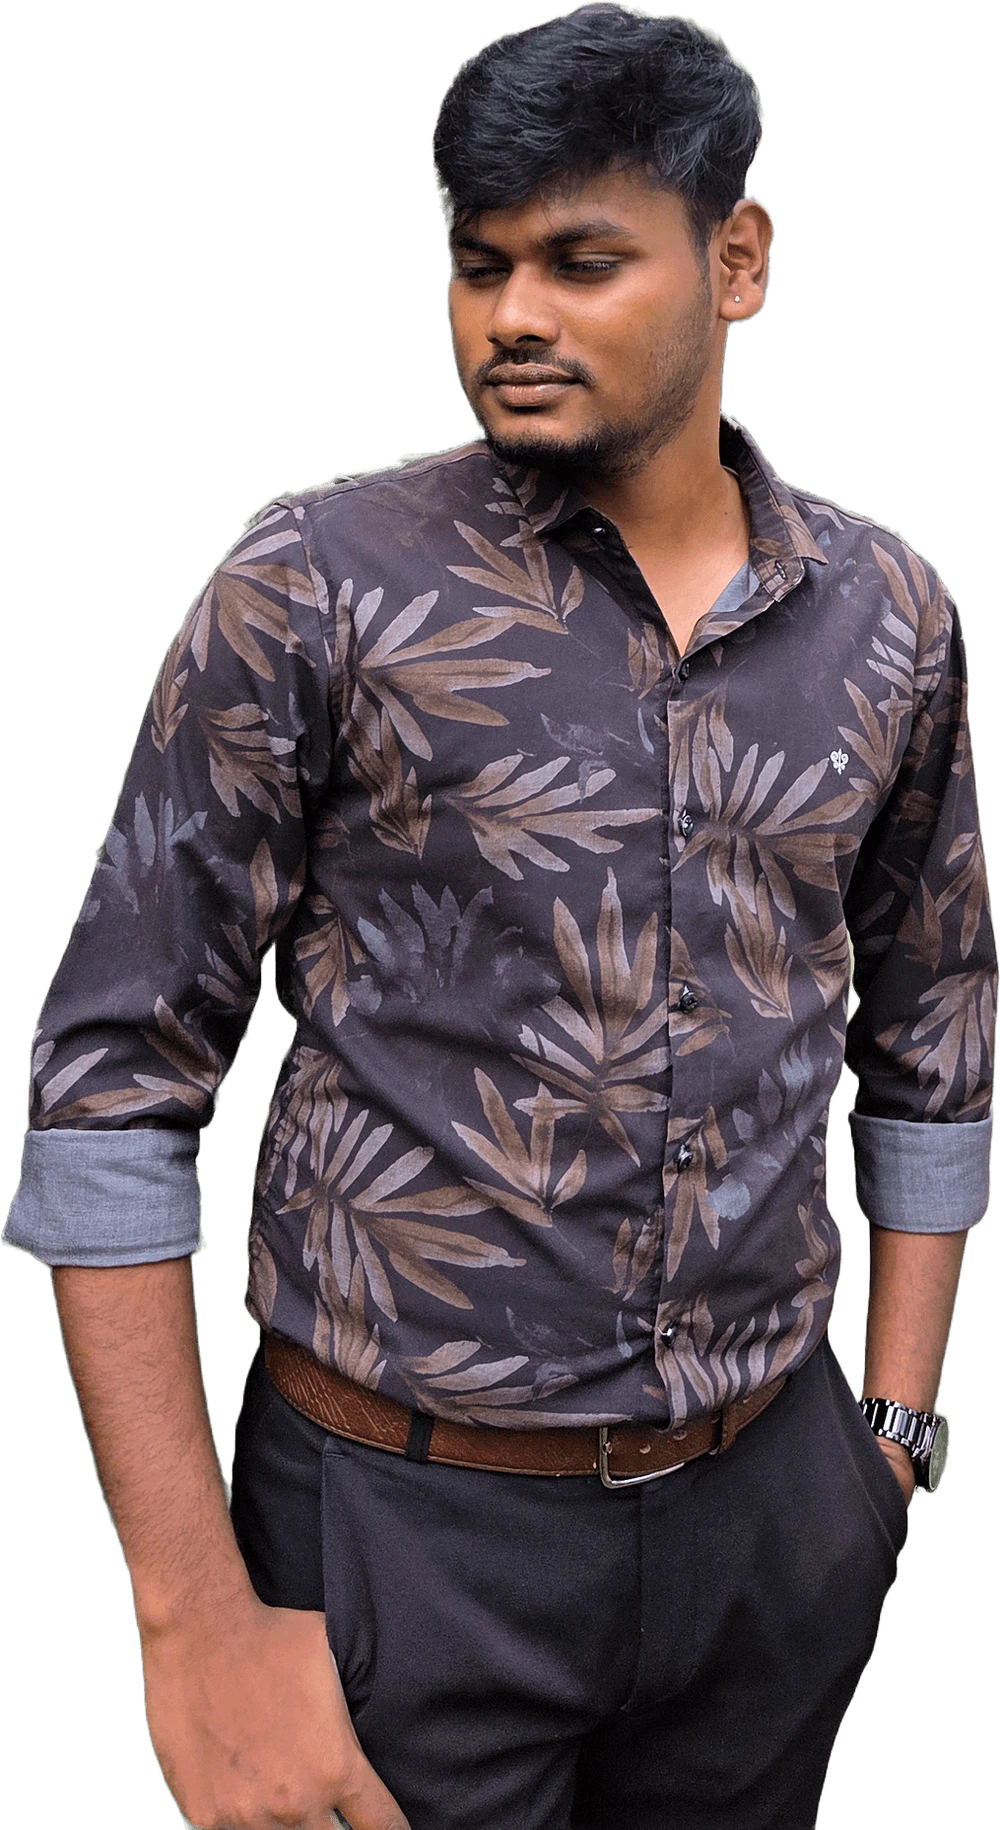
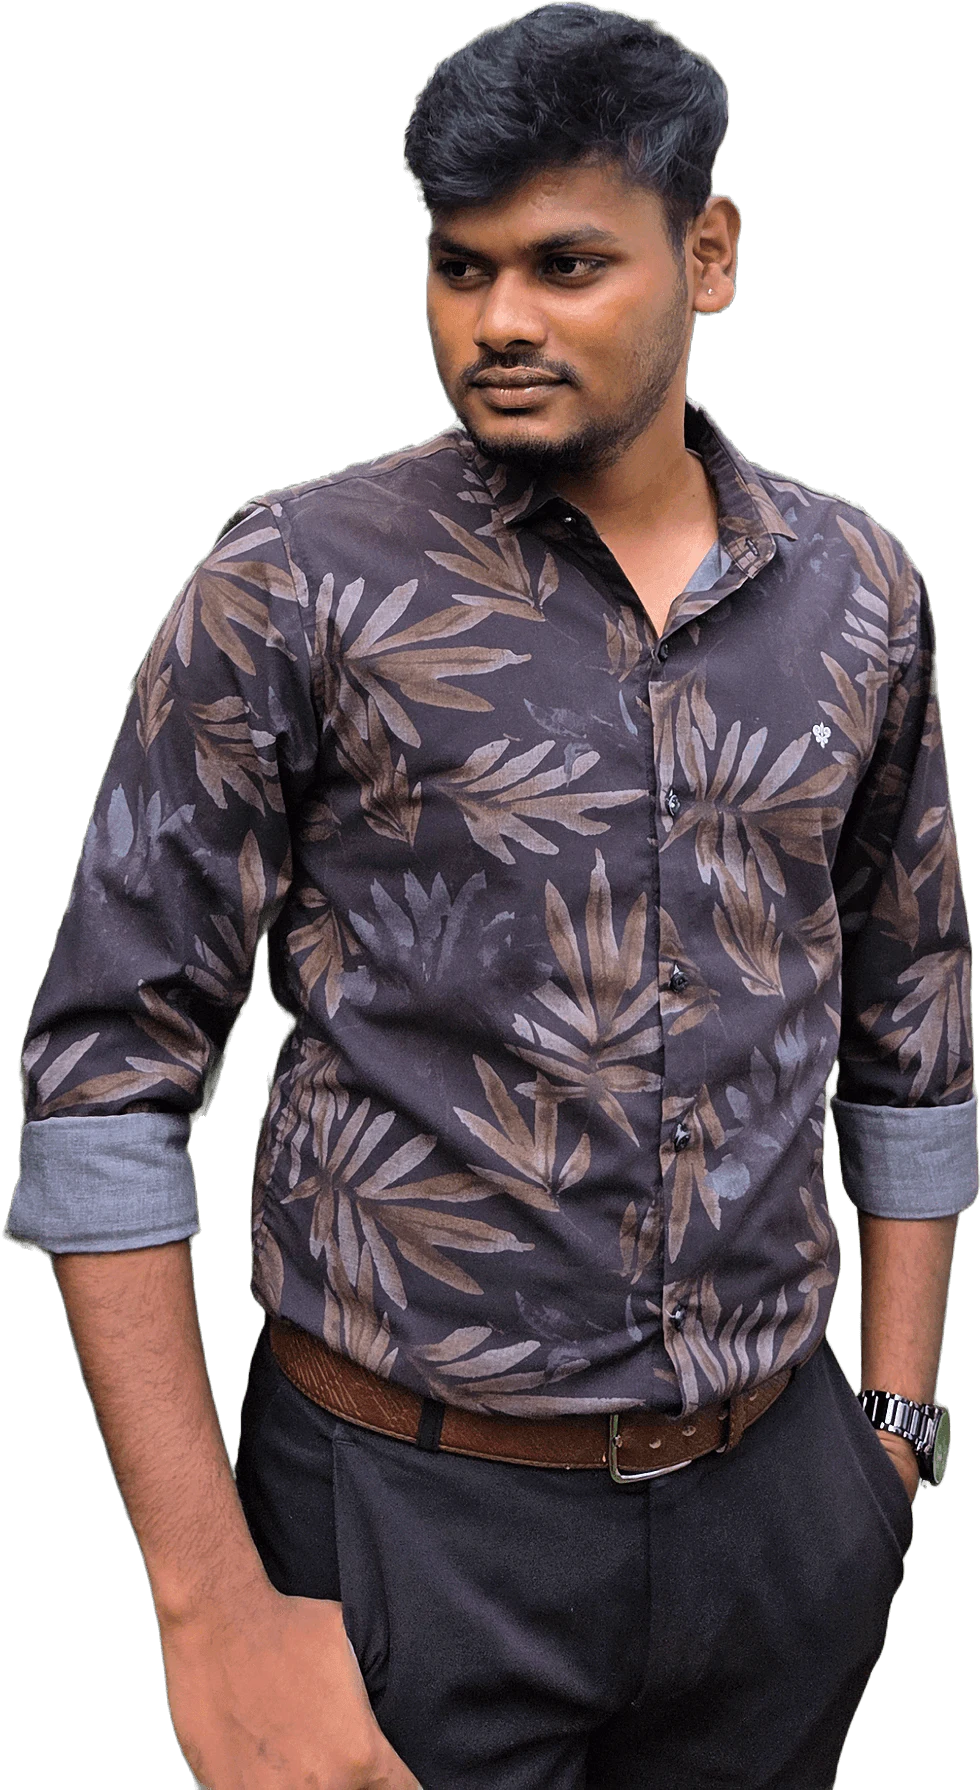
img update

diff --git a/style.css b/style.css
@@ -186,13 +186,22 @@ body.has-pointer .cursor-glow { opacity: 1; }
 }
 .nav-inner { height: 100%; display: flex; align-items: center; justify-content: space-between; gap: 1rem; }
 
-.logo { display: inline-flex; align-items: center; gap: .1rem; font-family: var(--font-head); font-weight: 700; font-size: 1.2rem; }
+.logo { display: inline-flex; align-items: center; gap: .6rem; font-family: var(--font-head); font-weight: 700; font-size: 1.15rem; letter-spacing: -.01em; }
 .logo-mark {
-    width: 34px; height: 34px; border-radius: 10px; margin-right: .35rem;
-    display: grid; place-items: center; color: #fff; font-size: 1.05rem;
-    background: var(--grad);
-    box-shadow: 0 6px 18px -6px rgba(124, 92, 255, .7);
+    position: relative; flex: none; width: 36px; height: 36px; border-radius: 10px;
+    display: grid; place-items: center; color: #fff; overflow: hidden;
+    background: linear-gradient(135deg, #7c5cff, #4f8dff 55%, #22d3ee);
+    box-shadow: 0 8px 20px -8px rgba(124, 92, 255, .8), inset 0 1px 0 rgba(255, 255, 255, .25);
+    transition: transform .5s var(--ease), box-shadow .4s;
 }
+.logo-mark svg { width: 100%; height: 100%; }
+.logo-mark::after {
+    content: ""; position: absolute; inset: 0;
+    background: linear-gradient(115deg, transparent 30%, rgba(255, 255, 255, .45) 50%, transparent 70%);
+    transform: translateX(-120%); transition: transform .7s var(--ease);
+}
+.logo:hover .logo-mark { transform: rotate(-8deg) scale(1.06); box-shadow: 0 12px 26px -8px rgba(124, 92, 255, .95); }
+.logo:hover .logo-mark::after { transform: translateX(120%); }
 .logo .dot { color: var(--primary-2); }
 
 .nav-links { display: flex; gap: .25rem; padding: .35rem; border-radius: 999px; border: 1px solid var(--border); background: var(--surface); backdrop-filter: blur(10px); }
@@ -271,7 +280,7 @@ body.has-pointer .cursor-glow { opacity: 1; }
 /* Visual */
 @property --ang { syntax: "<angle>"; initial-value: 0deg; inherits: false; }
 
-.hero-visual { position: relative; justify-self: center; width: min(380px, 100%); aspect-ratio: 3 / 4; }
+.hero-visual { position: relative; isolation: isolate; justify-self: center; width: min(380px, 100%); aspect-ratio: 3 / 4; }
 .avatar-ring {
     position: absolute; inset: 0; padding: 3px;
     border-radius: 999px 999px 32px 32px;
@@ -297,24 +306,66 @@ body.has-pointer .cursor-glow { opacity: 1; }
 .hero-visual:hover .avatar img { transform: scale(1.04); }
 @keyframes ang { to { --ang: 360deg; } }
 
-.float-chip, .float-card {
-    position: absolute; display: flex; align-items: center; gap: .55rem;
-    padding: .6rem .95rem; border-radius: 14px;
-    font-size: .88rem; font-weight: 600;
-    background: color-mix(in srgb, var(--surface-solid) 85%, transparent);
-    border: 1px solid var(--border-strong);
-    backdrop-filter: blur(12px); box-shadow: var(--shadow);
-    animation: bob 6s ease-in-out infinite;
+/* Orbit rings behind the portrait */
+.orbit {
+    position: absolute; left: 50%; top: 52%; border-radius: 50%; pointer-events: none; z-index: -1;
+    border: 1px dashed color-mix(in srgb, var(--primary) 45%, transparent);
+    transform: translate(-50%, -50%); animation: orbit 40s linear infinite;
 }
-.float-chip i { font-size: 1.3rem; }
-.chip-1 { top: 14%; left: -14%; }
-.chip-2 { top: 40%; right: -16%; animation-delay: -2s; }
-.chip-3 { bottom: 24%; left: -18%; animation-delay: -4s; }
-.float-card { bottom: 5%; right: -14%; padding: .8rem 1rem; animation-delay: -3s; }
-.float-card i { color: var(--accent); font-size: 1.1rem; }
-.float-card div { display: flex; flex-direction: column; line-height: 1.25; }
-.float-card strong { font-size: .9rem; }
-.float-card span { font-size: .75rem; font-weight: 500; color: var(--text-muted); }
+.orbit-1 { width: 138%; aspect-ratio: 1; }
+.orbit-2 { width: 108%; aspect-ratio: 1; border-style: solid; border-color: var(--border); animation-duration: 28s; animation-direction: reverse; }
+.orbit span { position: absolute; top: 50%; left: -5px; width: 10px; height: 10px; margin-top: -5px; border-radius: 50%; background: var(--primary-2); box-shadow: 0 0 14px 3px color-mix(in srgb, var(--primary-2) 60%, transparent); }
+.orbit-2 span { left: auto; right: -4px; width: 8px; height: 8px; background: var(--accent); box-shadow: 0 0 12px 3px color-mix(in srgb, var(--accent) 55%, transparent); }
+@keyframes orbit { to { transform: translate(-50%, -50%) rotate(360deg); } }
+
+/* Shared glass surface for hero overlays */
+.code-card, .tech-rail, .hero-stats {
+    position: absolute; z-index: 2;
+    background: color-mix(in srgb, var(--surface-solid) 82%, transparent);
+    border: 1px solid var(--border-strong);
+    backdrop-filter: blur(14px); -webkit-backdrop-filter: blur(14px);
+    box-shadow: var(--shadow);
+}
+
+.code-card { top: 7%; left: -34%; width: 250px; border-radius: 14px; overflow: hidden; animation: bob 7s ease-in-out infinite; text-align: left; }
+.code-bar { display: flex; align-items: center; gap: 6px; padding: .55rem .8rem; border-bottom: 1px solid var(--border); }
+.code-bar i { width: 9px; height: 9px; border-radius: 50%; background: #ff5f57; }
+.code-bar i:nth-child(2) { background: #febc2e; }
+.code-bar i:nth-child(3) { background: #28c840; }
+.code-bar span { margin-left: auto; font-size: .7rem; font-weight: 600; color: var(--text-dim); font-family: ui-monospace, "Cascadia Code", Consolas, monospace; }
+.code-card pre { margin: 0; padding: .75rem .9rem .85rem; font: 500 .74rem/1.65 ui-monospace, "Cascadia Code", Consolas, monospace; color: var(--text-muted); white-space: pre; }
+.code-card .k { color: #c084fc; }
+.code-card .v { color: var(--primary-2); }
+.code-card .s { color: #34d399; }
+.code-card .b { color: #fb923c; }
+[data-theme="light"] .code-card .s { color: #059669; }
+[data-theme="light"] .code-card .k { color: #7c3aed; }
+
+.tech-rail {
+    top: 50%; right: -15%; transform: translateY(-50%);
+    display: flex; flex-direction: column; gap: .35rem; padding: .45rem; border-radius: 999px;
+}
+.tech-rail li {
+    width: 42px; height: 42px; border-radius: 50%; display: grid; place-items: center; font-size: 1.3rem;
+    background: var(--surface-hover); border: 1px solid var(--border);
+    transition: transform .35s var(--ease), border-color .25s, background .25s;
+    animation: rail-in .6s var(--ease) backwards;
+}
+.tech-rail li:nth-child(2) { animation-delay: .08s; }
+.tech-rail li:nth-child(3) { animation-delay: .16s; }
+.tech-rail li:nth-child(4) { animation-delay: .24s; }
+.tech-rail li:nth-child(5) { animation-delay: .32s; }
+.tech-rail li:hover { transform: scale(1.15); border-color: var(--primary); background: var(--surface-solid); }
+@keyframes rail-in { from { opacity: 0; transform: translateX(12px); } }
+
+.hero-stats {
+    bottom: 7%; left: -22%; display: flex; align-items: center; gap: 1rem;
+    padding: .85rem 1.15rem; border-radius: 16px; animation: bob 6s ease-in-out -3s infinite; text-align: left;
+}
+.hero-stats > div:not(.hs-sep) { display: flex; align-items: center; gap: .55rem; }
+.hero-stats strong { font-family: var(--font-head); font-size: 1.65rem; line-height: 1; background: var(--grad); -webkit-background-clip: text; background-clip: text; color: transparent; }
+.hero-stats span { font-size: .72rem; font-weight: 600; line-height: 1.25; color: var(--text-muted); }
+.hs-sep { width: 1px; align-self: stretch; background: var(--border-strong); }
 
 @keyframes bob { 0%, 100% { transform: translateY(0); } 50% { transform: translateY(-12px); } }
 
@@ -644,6 +695,11 @@ a.info-card:hover { border-color: var(--border-strong); transform: translateX(6p
     .cert-grid { grid-template-columns: repeat(2, 1fr); }
     .project-grid { grid-template-columns: repeat(2, 1fr); }
     .nav-link { padding: .5rem .75rem; }
+    .hero-visual { width: min(330px, 100%); }
+    .tech-rail { right: -8%; }
+    .code-card { left: -24%; width: 215px; top: 3%; }
+    .code-card pre { font-size: .66rem; }
+    .hero-stats { left: -12%; }
 }
 
 @media (max-width: 920px) {
@@ -689,12 +745,12 @@ a.info-card:hover { border-color: var(--border-strong); transform: translateX(6p
     .tl-dot { left: -2.6rem; width: 32px; height: 32px; font-size: .8rem; border-radius: 10px; }
     .tl-card { padding: 1.3rem; }
     .tl-card:hover { transform: none; }
-    .chip-1 { left: -4%; }
-    .chip-2 { right: -6%; }
-    .chip-3 { left: -6%; }
-    .float-chip { font-size: .78rem; padding: .45rem .7rem; }
-    .float-chip i { font-size: 1.05rem; }
-    .float-card { right: -2%; }
+    .code-card { display: none; }
+    .tech-rail { right: -9%; gap: .25rem; padding: .35rem; }
+    .tech-rail li { width: 34px; height: 34px; font-size: 1.05rem; }
+    .hero-stats { left: -9%; bottom: 5%; padding: .6rem .85rem; gap: .7rem; }
+    .hero-stats strong { font-size: 1.3rem; }
+    .hero-stats span { font-size: .65rem; }
     .hero-cta { width: 100%; }
     .hero-cta .btn { flex: 1 1 200px; }
     .footer-inner { flex-direction: column; text-align: center; }

diff --git a/index.html b/index.html
@@ -9,7 +9,9 @@
     <meta property="og:title" content="Bharathidasan R — Software Engineer">
     <meta property="og:description" content="Full stack web & mobile developer. Angular · React · Flutter · .NET · Node.js">
     <meta property="og:image" content="img/me/hero.jpg">
-    <link rel="icon" href="img/icons8-b-32.png">
+    <link rel="icon" href="img/favicon.svg" type="image/svg+xml">
+    <link rel="icon" href="img/favicon-32.png" sizes="32x32" type="image/png">
+    <link rel="apple-touch-icon" href="img/apple-touch-icon.png">
 
     <script>
         // Apply saved/system theme before paint to avoid a flash
@@ -39,7 +41,7 @@
     <header class="nav" id="nav">
         <div class="nav-inner wrap">
             <a href="#home" class="logo" aria-label="Bharathidasan R — home">
-                <span class="logo-mark">B</span><span class="logo-text">harathidasan<span class="dot">.</span></span>
+                <span class="logo-mark" aria-hidden="true"><svg viewBox="0 0 64 64"><path d="M19 15.5V48.5M19 15.5H31.5A8.25 8.25 0 0 1 31.5 32H19M19 32H33.5A8.25 8.25 0 0 1 33.5 48.5H19" fill="none" stroke="currentColor" stroke-width="5.5" stroke-linecap="round" stroke-linejoin="round"/><circle cx="48.5" cy="45.5" r="4" fill="#f472b6"/></svg></span><span class="logo-text">Bharathidasan<span class="dot">.</span></span>
             </a>
 
             <nav class="nav-links" id="nav-links" aria-label="Primary">
@@ -108,20 +110,37 @@
                 </div>
 
                 <div class="hero-visual reveal">
+                    <div class="orbit orbit-1" aria-hidden="true"><span></span></div>
+                    <div class="orbit orbit-2" aria-hidden="true"><span></span></div>
+
                     <div class="avatar-ring">
                         <div class="avatar">
                             <img src="img/me/hero-cut.webp" alt="Portrait of Bharathidasan R" width="1000" height="1430" fetchpriority="high">
                         </div>
                     </div>
-                    <div class="float-chip chip-1"><i class="devicon-angularjs-plain colored"></i> Angular</div>
-                    <div class="float-chip chip-2"><i class="devicon-flutter-plain colored"></i> Flutter</div>
-                    <div class="float-chip chip-3"><i class="devicon-dotnetcore-plain colored"></i> .NET Core</div>
-                    <div class="float-card">
-                        <i class="fa-solid fa-location-dot"></i>
-                        <div>
-                            <strong>Chennai, India</strong>
-                            <span>Open to collaborations</span>
-                        </div>
+
+                    <div class="code-card" aria-hidden="true">
+                        <div class="code-bar"><i></i><i></i><i></i><span>dev.ts</span></div>
+<pre><code><span class="k">const</span> <span class="v">dev</span> = {
+  name: <span class="s">'Bharathidasan'</span>,
+  role: <span class="s">'Software Engineer'</span>,
+  stack: [<span class="s">'.NET'</span>, <span class="s">'Angular'</span>],
+  available: <span class="b">true</span>
+};</code></pre>
+                    </div>
+
+                    <ul class="tech-rail" aria-label="Core stack">
+                        <li title="Angular"><i class="devicon-angularjs-plain colored"></i></li>
+                        <li title=".NET Core"><i class="devicon-dotnetcore-plain colored"></i></li>
+                        <li title="Flutter"><i class="devicon-flutter-plain colored"></i></li>
+                        <li title="React"><i class="devicon-react-original colored"></i></li>
+                        <li title="Azure"><i class="devicon-azure-plain colored"></i></li>
+                    </ul>
+
+                    <div class="hero-stats">
+                        <div><strong>2+</strong><span>Years<br>experience</span></div>
+                        <div class="hs-sep" aria-hidden="true"></div>
+                        <div><strong>12+</strong><span>Projects<br>shipped</span></div>
                     </div>
                 </div>
             </div>
@@ -599,7 +618,7 @@
                 <div class="contact-grid">
                     <div class="contact-info reveal">
                         <figure class="contact-photo">
-                            <img src="img/me/contact-cut.webp" alt="Bharathidasan R in a printed shirt" width="1000" height="1830" loading="lazy">
+                            <img src="img/me/contact-cut.webp" alt="Bharathidasan R in a printed shirt" width="980" height="1790" loading="lazy">
                             <figcaption>
                                 <span class="status-pill"><span class="pulse"></span> Available for opportunities</span>
                                 <strong>Let's talk about your next idea.</strong>
@@ -656,7 +675,7 @@
     <footer class="footer">
         <div class="wrap footer-inner">
             <a href="#home" class="logo">
-                <span class="logo-mark">B</span><span class="logo-text">harathidasan<span class="dot">.</span></span>
+                <span class="logo-mark" aria-hidden="true"><svg viewBox="0 0 64 64"><path d="M19 15.5V48.5M19 15.5H31.5A8.25 8.25 0 0 1 31.5 32H19M19 32H33.5A8.25 8.25 0 0 1 33.5 48.5H19" fill="none" stroke="currentColor" stroke-width="5.5" stroke-linecap="round" stroke-linejoin="round"/><circle cx="48.5" cy="45.5" r="4" fill="#f472b6"/></svg></span><span class="logo-text">Bharathidasan<span class="dot">.</span></span>
             </a>
             <p>© <span id="year"></span> Bharathidasan R. Designed &amp; built with care.</p>
             <div class="footer-socials">
